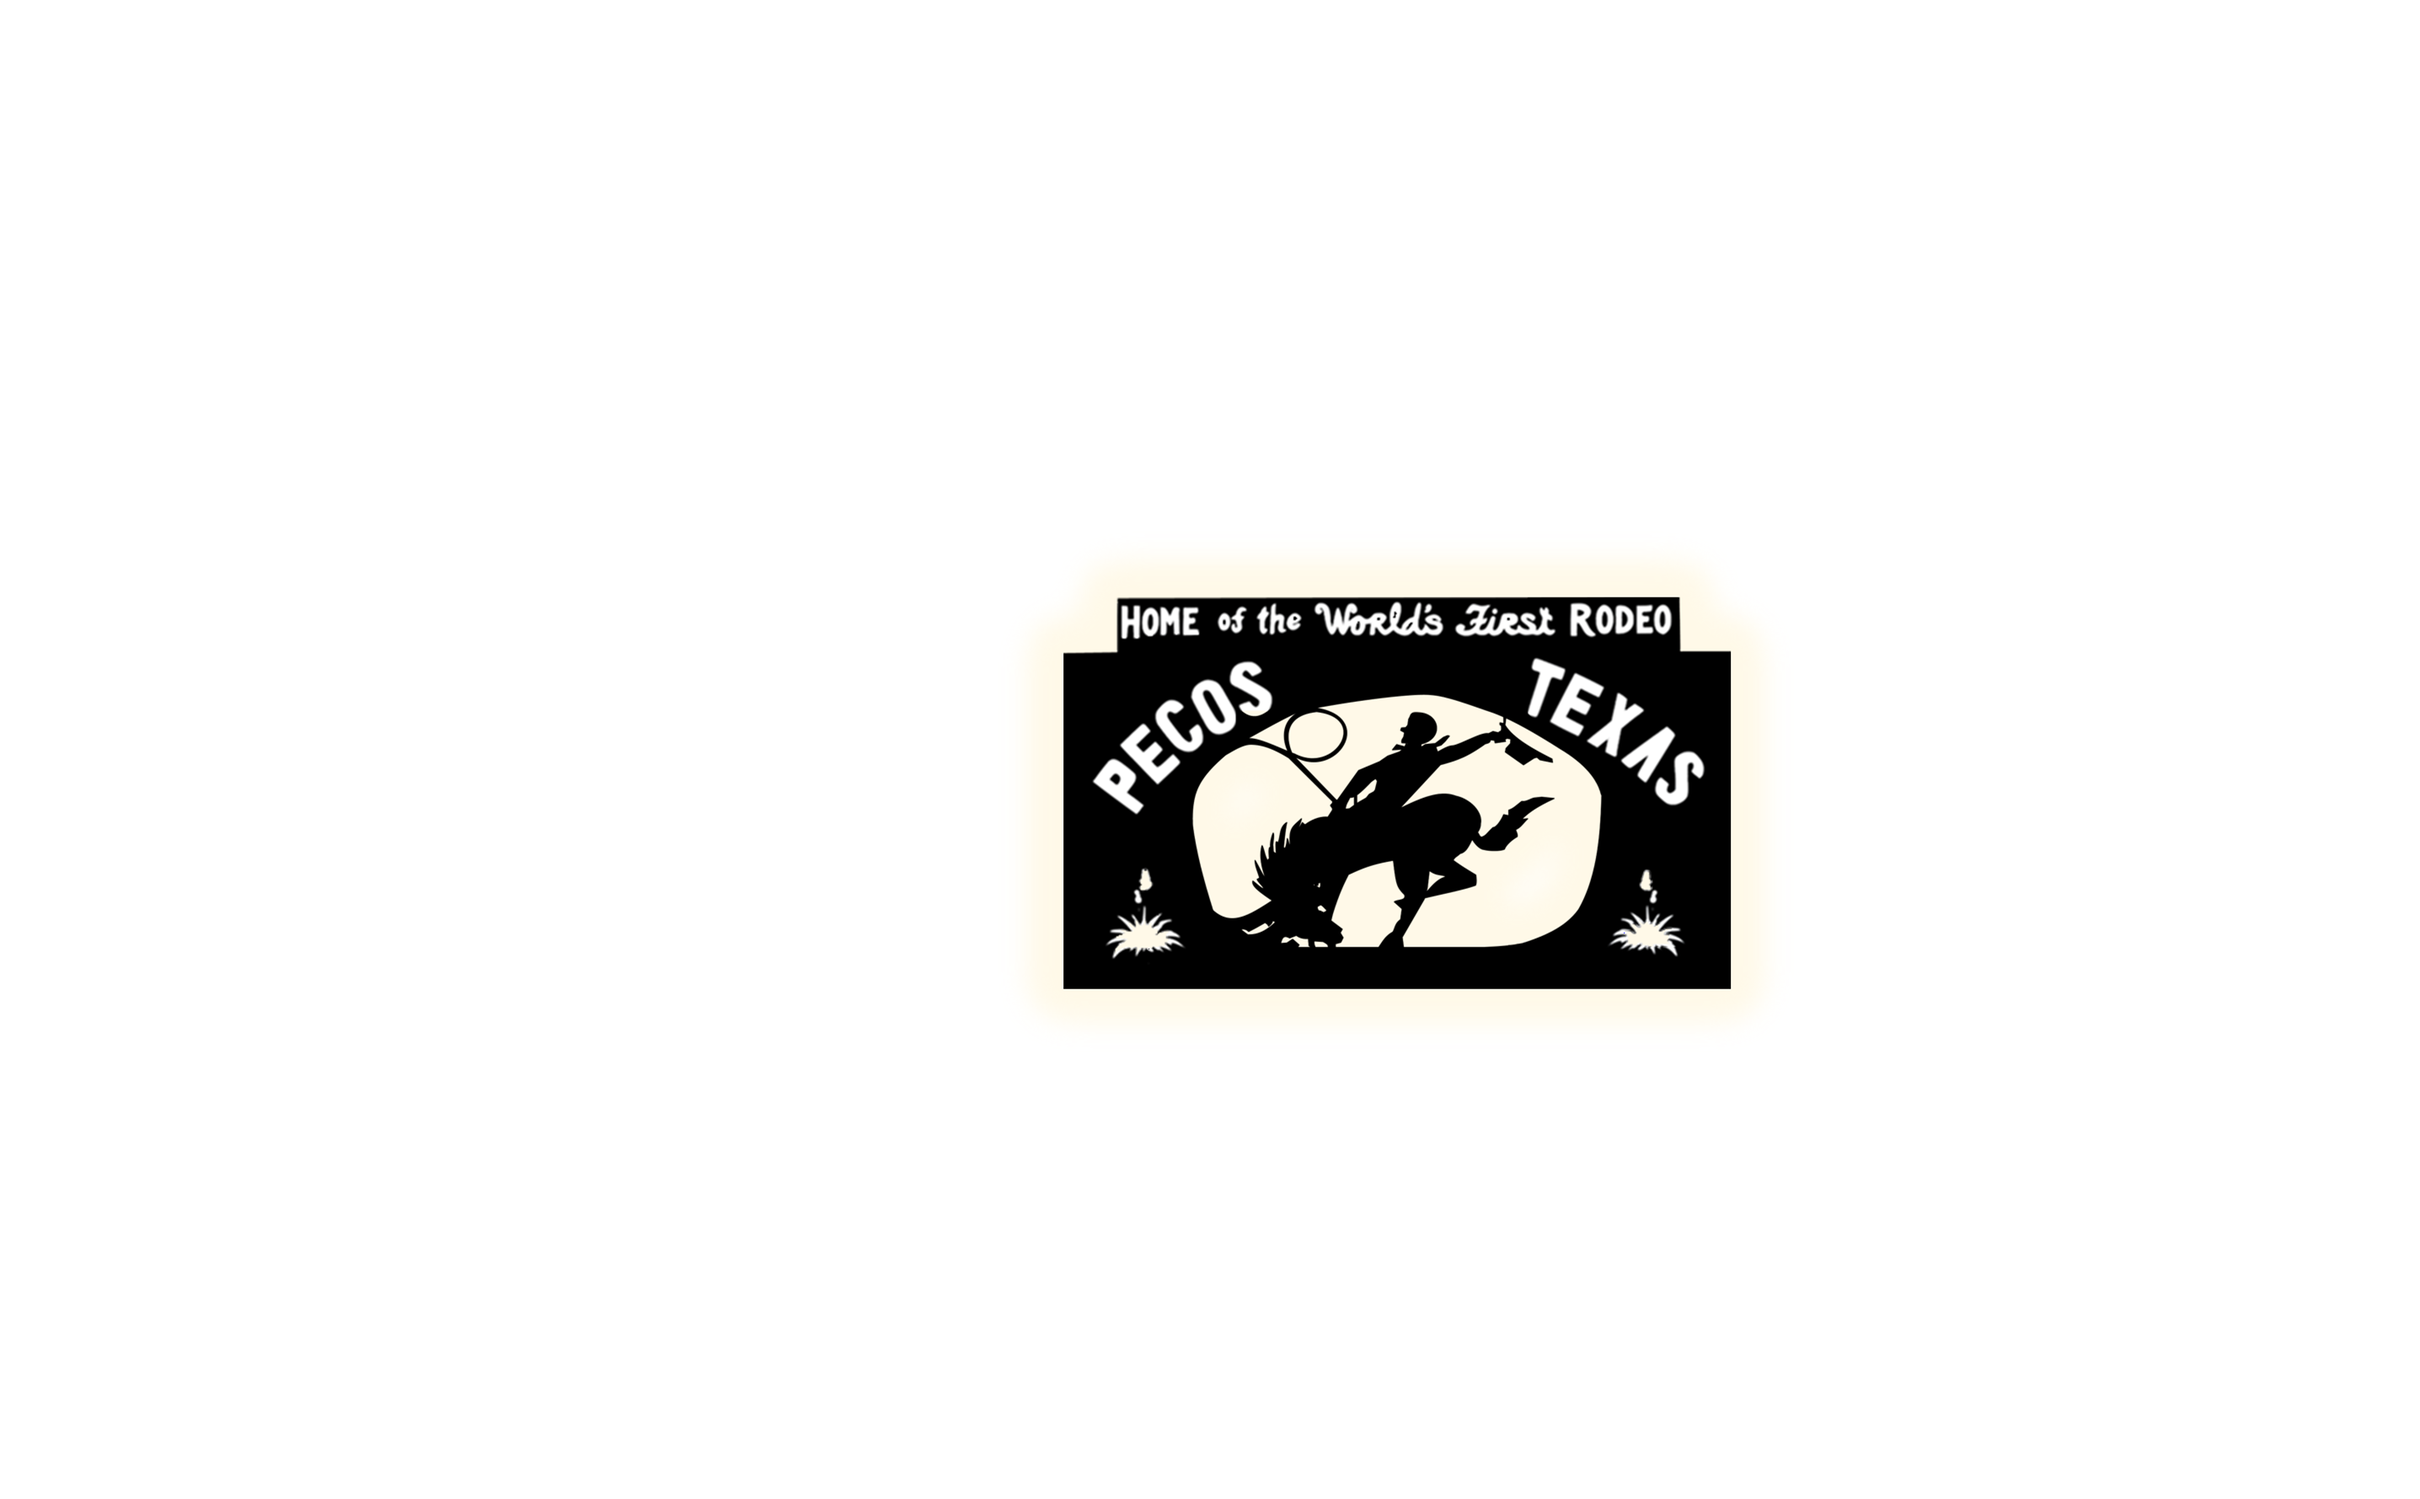
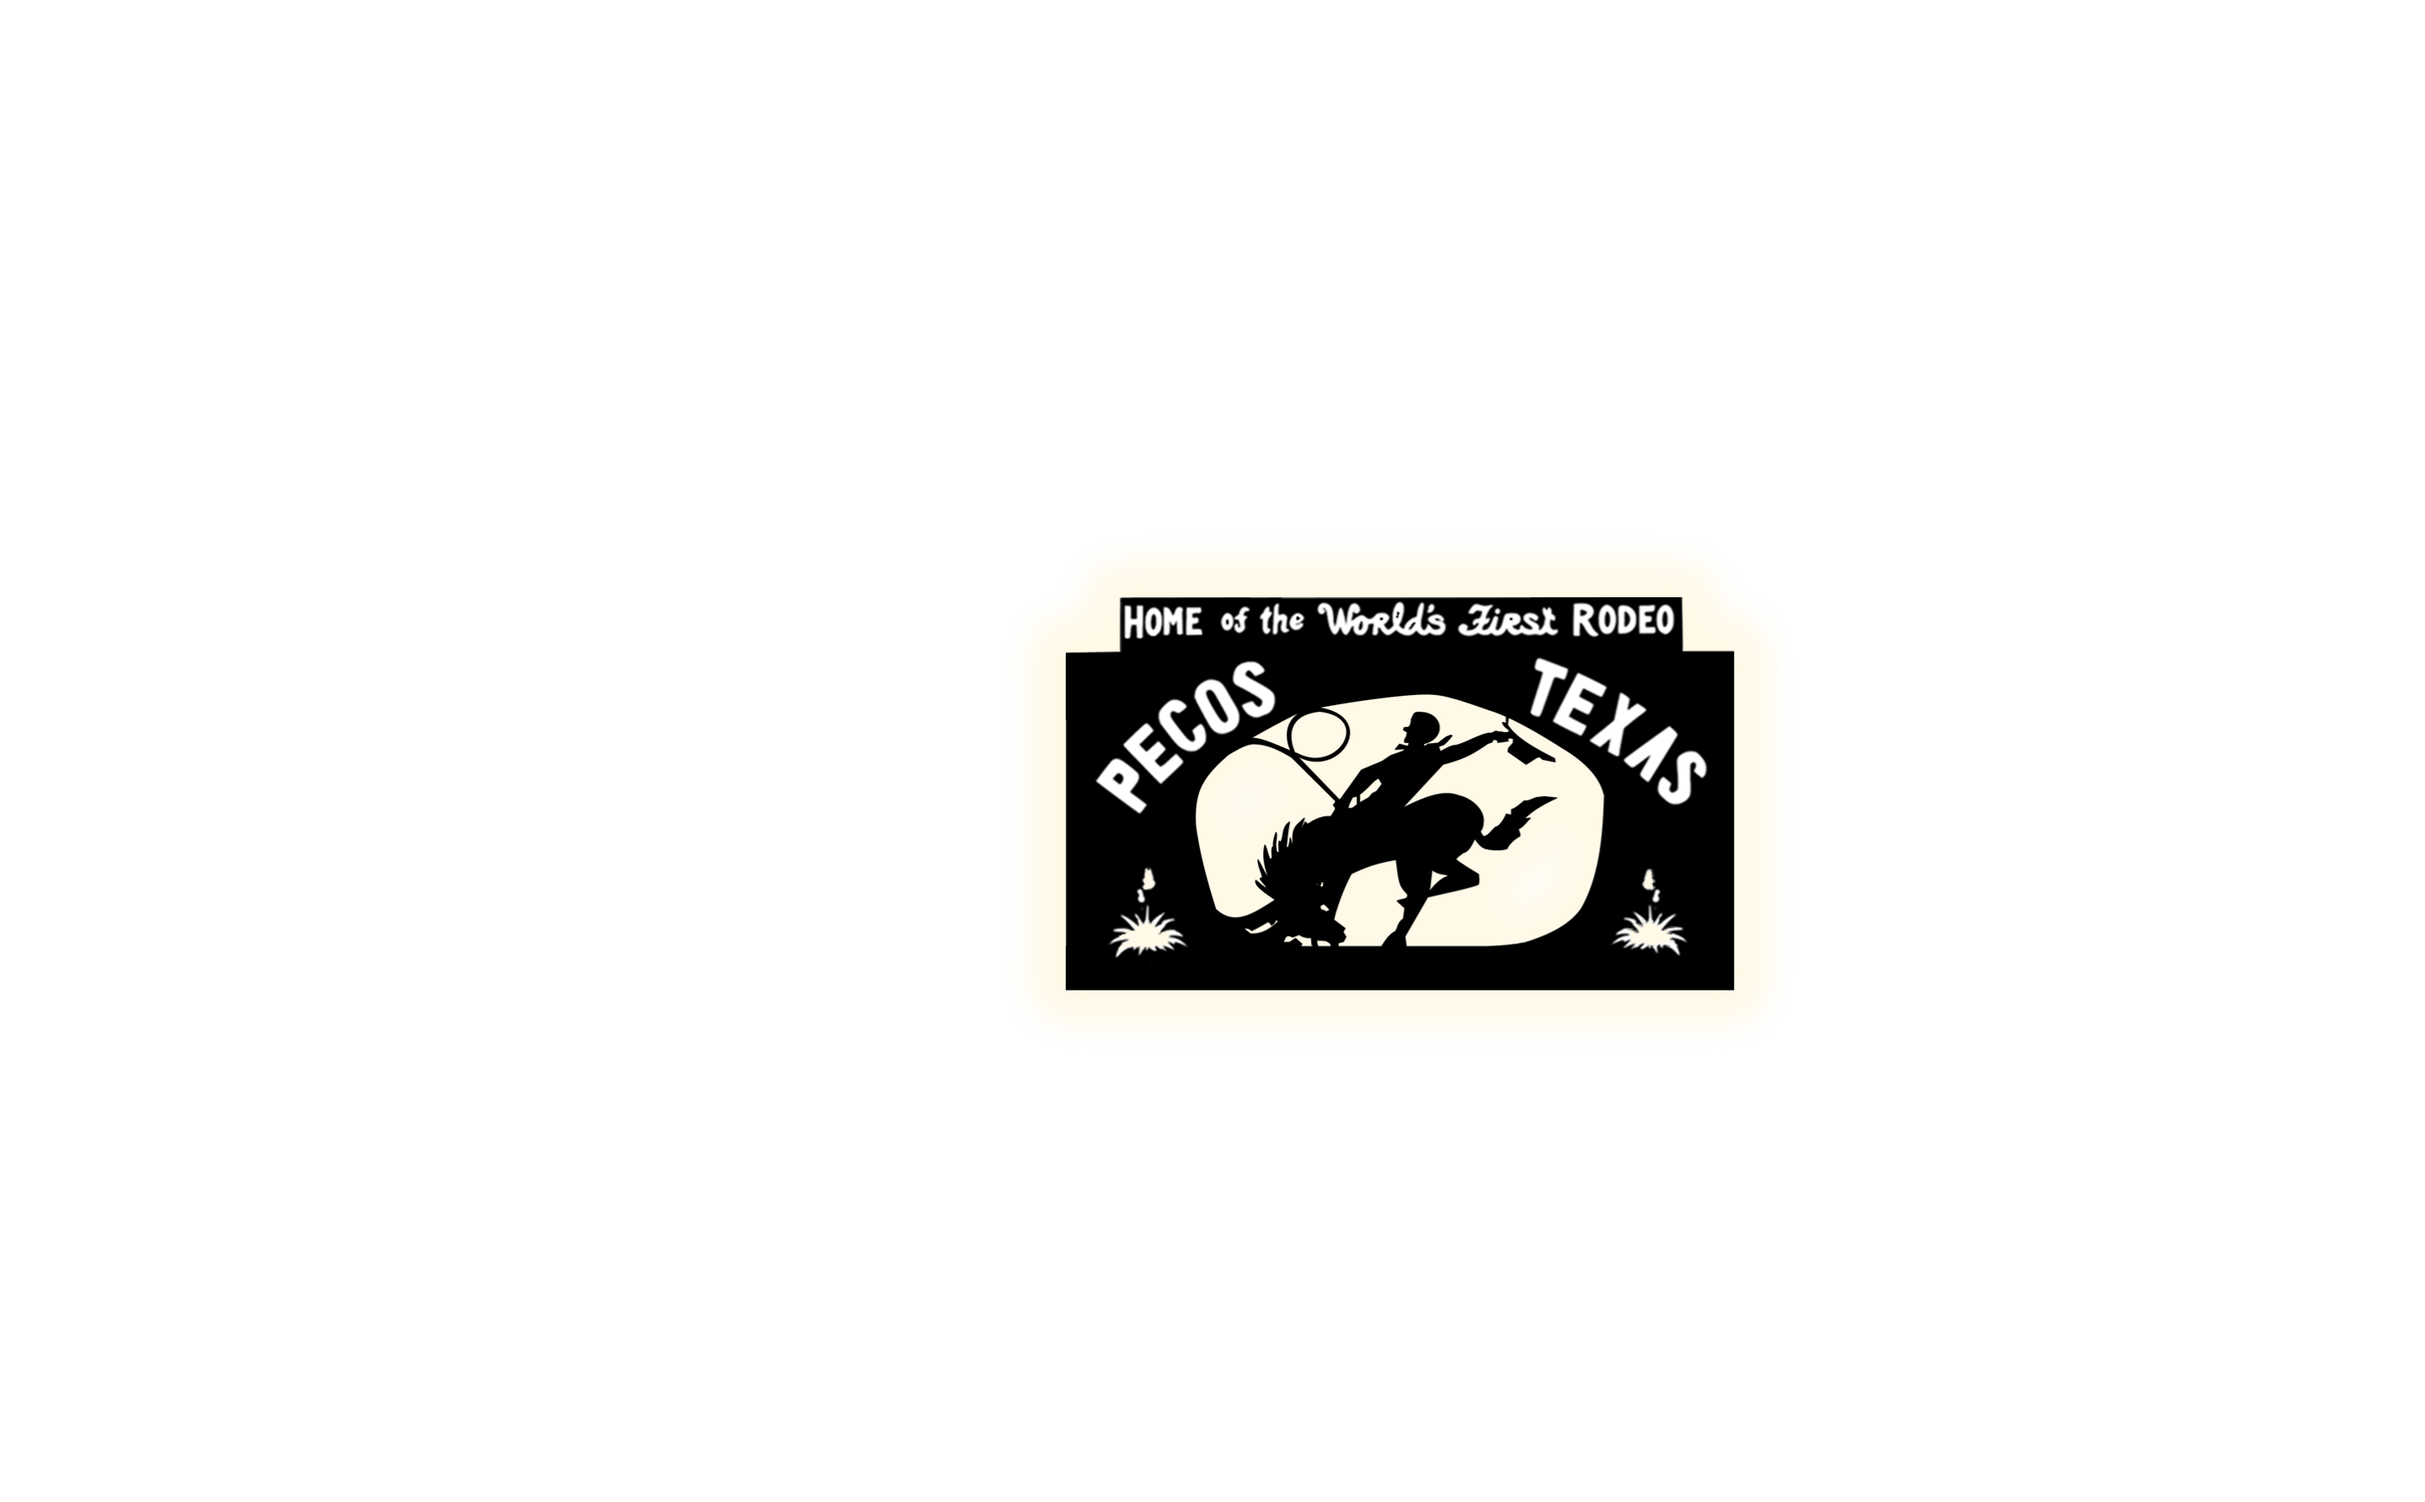
updating Pecos Rodeo graphic and edu/DC text content

diff --git a/index.html b/index.html
@@ -80,10 +80,9 @@
         & is the unofficial start of the great U.S. Southwest.
       </p>
     </div>
-    <div style="height:15vh;background-color: #fff;"></div>
     <div class="scrollContainer imgContainer">  
       <p  class="animate-on-scroll imageScaleIn" style="z-index:4;">
-        <img src="images/Pecos2.svg" alt="Pecos TX Rodeo Picture" >
+        <img src="images/Pecos2.png" alt="Pecos TX Rodeo Picture" >
       </p>
       <div style="height:25vh;"></div>
 
@@ -126,8 +125,8 @@
         <p class="animate-on-scroll textScaleIn" > That said, my interest in energy and resource policy — core to my research as a Ph.D. student  — evolved rather naturally. </p>
           <div style="height:50vh;background-color: #fff;"></div>
 
-          <p class="animate-on-scroll textScaleIn" > In year 3 of 5 in my Ph.D. in Government program 
-            at Georgetown, I currently split my time between Washington DC & Far West Texas. </p>
+          <p class="animate-on-scroll textScaleIn" > Previously working as a policy analyst in the Texas Senate,
+            I am current a Ph.D. student in the Government Dept. at Georgetown, splitting my time between Washington DC & Far West Texas. </p>
         </div>
         <div style="height:35vh;background-color: #fff;"></div>
         <p  class="animate-on-scroll imageScaleIn" style="z-index:4;">
